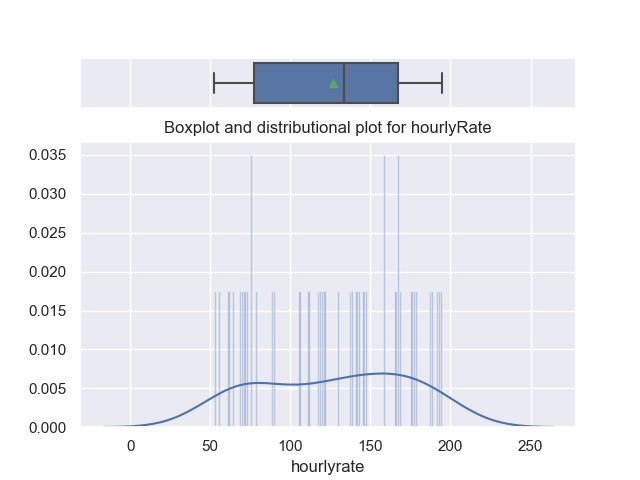
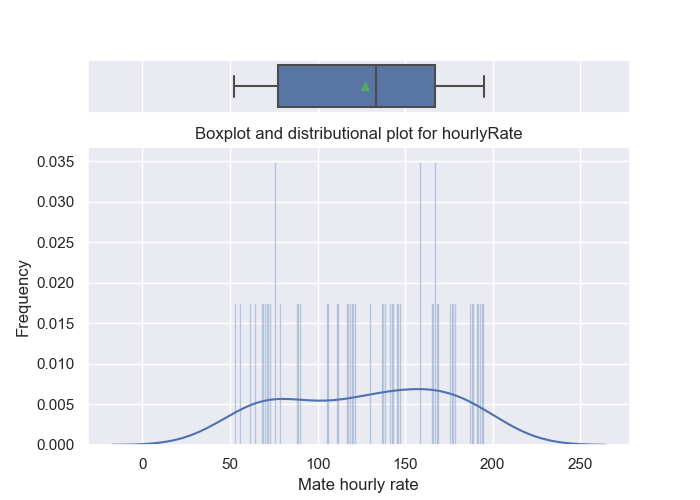
Updated visualization

diff --git a/user_interface/visualizations.py b/user_interface/visualizations.py
@@ -43,7 +43,7 @@ def visualization1():
             " FROM mate m" \
             " JOIN usertable u ON m.username= u.username" \
             " GROUP BY sex;"
-    stmt2 = "SELECT sex,COUNT(m.username) " \   
+    stmt2 = "SELECT sex,COUNT(m.username) " \
             "FROM customer m" \
             " JOIN usertable u ON m.username= u.username" \
             " GROUP BY sex;"
@@ -58,11 +58,11 @@ def visualization1():
     print(df_b)
     print(df_c)
     n_groups = 3
-    fig, ax = plt.subplots()
+    fig, ax = plt.subplots(figsize=(6,4))
     # parameter for drawing
     bar_width = 0.35
     opacity = 0.8
-    index = 0;
+    index = 0
 
     group1 = [index, index + bar_width]
     rects1 = plt.bar(group1, df_a['count'].to_numpy(), bar_width,
@@ -81,7 +81,6 @@ def visualization1():
                      alpha=opacity,
                      color='y',
                      label='manager')
-
     plt.xlabel('Sex')
     plt.ylabel('Count')
     plt.title('Histogram of female/male ratio for users')
@@ -107,10 +106,10 @@ def visualization2():
     df["age"] = df["age"].apply(lambda x: int(x))
     #print(df.to_numpy())
     #print(df.astype({'hourlyrate': 'int64','age': 'int64'}).dtypes)
-    sns_plot= sns.pairplot(df, vars=["age", "hourlyrate"])
+    sns_plot = sns.pairplot(df, vars=["age", "hourlyrate"], height=2, aspect=4/2)
     plt.title("Mates age vs. hourly rate")
     sns_plot.savefig('../figs/visual_2.png')
-
+    
 def visualization3():
     """
     Box/Distributional plot of the hourlyRate, mean value/Outliers 
@@ -122,7 +121,8 @@ def visualization3():
           "FROM mate;"
     df = util.query_executer(stmt)
     df["hourlyrate"]=df["hourlyrate"].apply(lambda x: int(x))
-    f, (ax_box, ax_hist) = plt.subplots(2, sharex=True, gridspec_kw={"height_ratios": (.15, .85)})
+    f, (ax_box, ax_hist) = plt.subplots(2, sharex=True, 
+       figsize=(7,5) , gridspec_kw={"height_ratios": (.15, .85)})
 
     # Add a graph in each part
     sns.boxplot(df["hourlyrate"], ax=ax_box, showmeans= True)
@@ -196,7 +196,8 @@ def visualization4():
     # Names of group and bar width
     names = df_d['aid'].tolist()
     barWidth = 1
-
+    
+    plt.figure(figsize=(7,5))
     # Create brown bars
     plt.bar(r, df_a['count'].tolist(), color='#7f6d5f', edgecolor='white', width=barWidth, label='<25')
     # Create green bars (middle), on top of the firs ones
